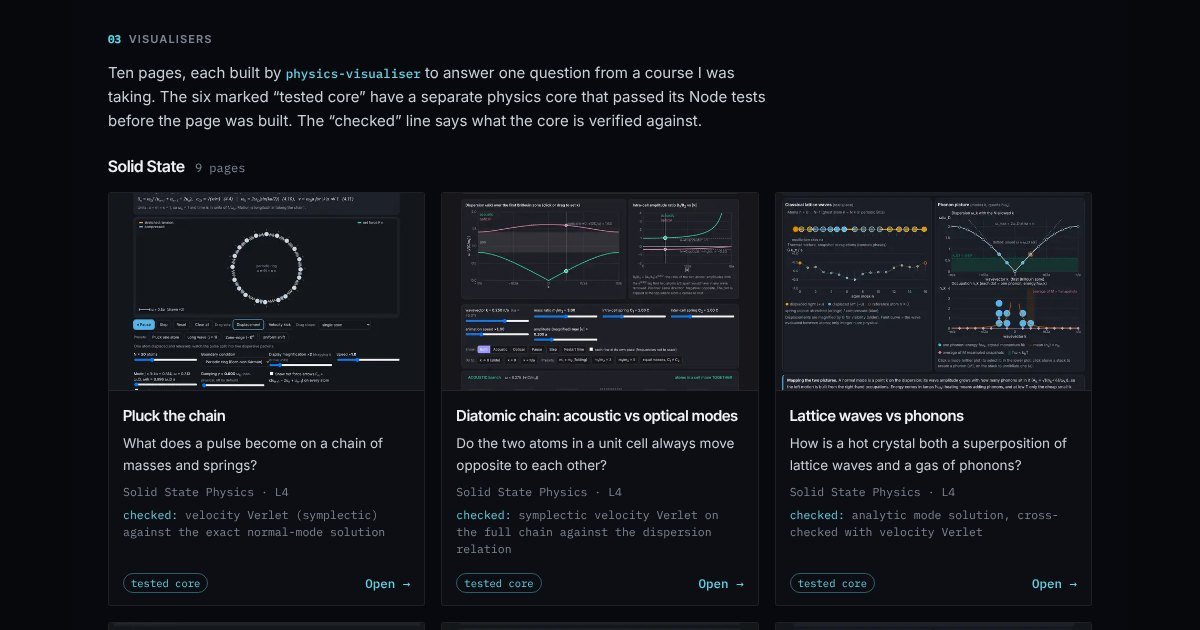
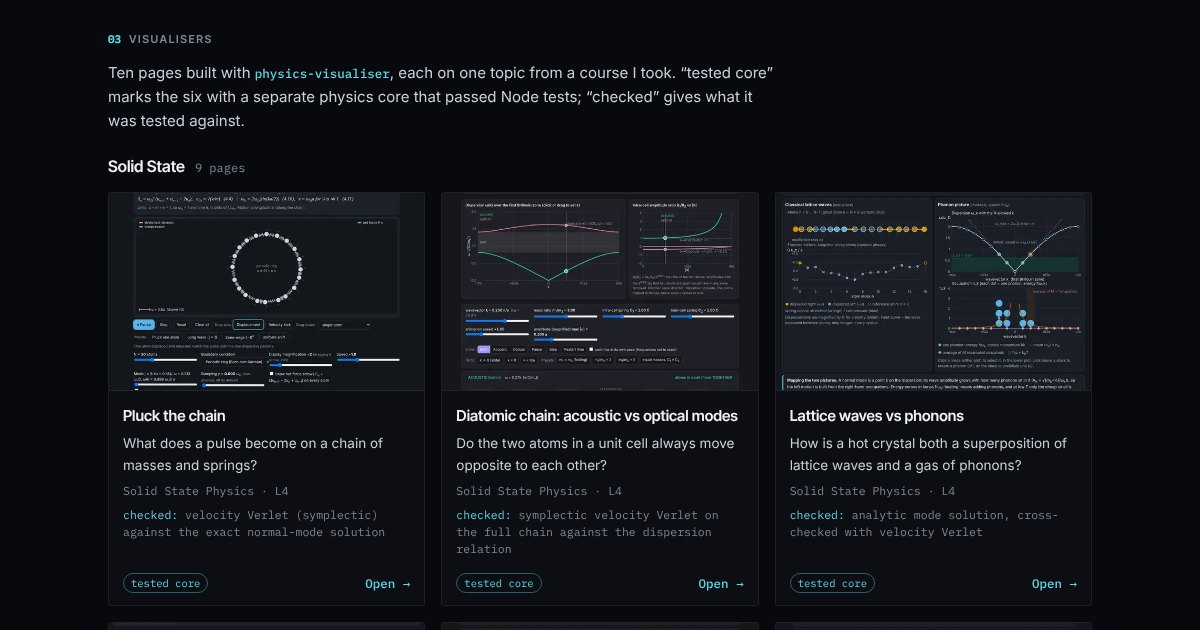
Plainer copy on /lab
Descriptive skill headings, no pull-quotes, shorter factual wording.

Changed region(s): [[0.0925, 0.0905, 0.6475, 0.2111], [0.74, 0.754, 0.7708, 0.7841], [0.185, 0.754, 0.2158, 0.7841]]

diff --git a/lab/index.html b/lab/index.html
@@ -4,7 +4,7 @@
 <meta charset="UTF-8">
 <meta name="viewport" content="width=device-width, initial-scale=1.0">
 <title>Things I build · Louis Razumovsky-Hough</title>
-<meta name="description" content="Four agent skills I designed, and what they produce: 10 interactive physics visualisers with Node-tested physics cores, verified practice questions and study automations.">
+<meta name="description" content="Four agent skills and their outputs: 10 interactive physics visualisers with Node-tested physics cores, verified practice questions and study guides.">
 <meta name="theme-color" content="#07080c">
 <link rel="canonical" href="https://louisvrh.github.io/lab/">
 <link rel="icon" href="../favicon.svg" type="image/svg+xml">
@@ -13,7 +13,7 @@
 <meta property="og:url" content="https://louisvrh.github.io/lab/">
 <meta property="og:site_name" content="Louis Razumovsky-Hough · Airy Labs">
 <meta property="og:title" content="Things I build">
-<meta property="og:description" content="Four agent skills I designed, and what they produce: 10 interactive physics visualisers with Node-tested physics cores, verified practice questions and study automations.">
+<meta property="og:description" content="Four agent skills and their outputs: 10 interactive physics visualisers with Node-tested physics cores, verified practice questions and study guides.">
 <meta property="og:image" content="https://louisvrh.github.io/lab/og.jpg">
 <meta property="og:image:width" content="1200">
 <meta property="og:image:height" content="630">
@@ -208,10 +208,6 @@
   .io dd { margin: 0; }
   .trust { margin: 0; font-size: 14px; }
   .trust b { color: var(--strong); font-weight: 600; }
-  blockquote {
-    margin: 0; padding: 0 0 0 12px; border-left: 2px solid var(--accent);
-    font-size: 13.5px; color: var(--strong); font-style: italic;
-  }
   details { border-top: 1px solid var(--line); padding-top: 0.6rem; margin-top: auto; }
   summary {
     cursor: pointer; list-style: none; display: inline-flex; align-items: center; gap: 8px;
@@ -286,8 +282,7 @@
   @media (max-width: 560px) { .others li { grid-template-columns: minmax(0, 1fr); } .others p { margin-top: 0.2rem; } }
   .sub-h { margin: 2.2rem 0 1rem; }
 
-  .closing p { max-width: var(--measure); font-size: 16px; color: var(--strong); }
-  .closing p + p { color: var(--text); font-size: 15px; }
+  .closing p { max-width: var(--measure); color: var(--text); }
   footer {
     margin: 1.4rem 0 4rem; font-size: 12px; color: var(--muted); text-align: center;
   }
@@ -317,11 +312,11 @@
     <div class="hero-text">
       <p class="kicker">Agent skills · physics visualisers · study automation</p>
       <h1>Things I build</h1>
-      <p class="lede">I write agent skills: reusable instructions that come with their own checks. They turn my lecture notes into interactive physics visualisers, verified practice questions and study guides. Below are the skills, how they connect, and what they have built so far.</p>
+      <p class="lede">Four agent skills I wrote for my physics degree, and what they produce from lecture notes: interactive visualisers, practice question sets and study guides. Each skill specifies a procedure and the tests its output must pass.</p>
       <ul class="facts" aria-label="At a glance">
-        <li><b>4</b> custom skills</li>
-        <li><b>10</b> interactive visualisers</li>
-        <li><b>6</b> physics cores unit-tested in Node before any UI</li>
+        <li><b>4</b> skills</li>
+        <li><b>10</b> visualisers</li>
+        <li><b>6</b> with physics cores unit-tested in Node</li>
       </ul>
     </div>
 
@@ -341,7 +336,7 @@
           <span class="cta">▶ Run it here</span>
         </a>
       </div>
-      <figcaption class="viewer-cap"><strong>Drag the point h across the contours, or drag the surface to rotate it.</strong> The two arrows are the eigenvectors of K, the only directions in which the force −Kh points straight back along the line. That is why the normal modes of m d²h/dt² = −Kh are those eigenvectors.</figcaption>
+      <figcaption class="viewer-cap"><strong>Drag h across the contour plot, or drag the surface to rotate it.</strong> The arrows are the eigenvectors of K, the only directions in which −Kh is parallel to h, so the normal modes of m d²h/dt² = −Kh lie along them.</figcaption>
     </figure>
   </header>
 
@@ -350,7 +345,7 @@
     <!-- ===================== pipeline ===================== -->
     <section class="panel" aria-labelledby="h-pipe">
       <h2 id="h-pipe"><span class="n">01</span>How the skills connect</h2>
-      <p class="intro">Each skill is a written procedure that the agent follows, including the tests it must run before it is allowed to publish anything. They hand work to each other: one lecture PDF becomes a study page, and from that page I can request a visualisation or a question set.</p>
+      <p class="intro">Each skill is a written procedure, including tests the output must pass before it is published. <span class="skill-name">lecture-notes-to-doc</span> converts a lecture PDF into a study page and, on request, passes briefs to <span class="skill-name">physics-visualiser</span> and <span class="skill-name">practice-questions</span>.</p>
 
       <svg class="pipe-svg" viewBox="0 0 960 476" aria-hidden="true" focusable="false">
         <defs>
@@ -365,15 +360,15 @@
         <!-- Row A: lecture notes -->
         <rect class="in" x="0.5" y="30.5" width="200" height="56" rx="3"/>
         <text class="t" x="14" y="54">Lecture-note PDFs</text>
-        <text class="s" x="14" y="72">one set per chat</text>
+        <text class="s" x="14" y="72">one lecture set at a time</text>
         <path class="ar" d="M201 58 H258" marker-end="url(#ah)"/>
         <rect class="sk" x="262.5" y="30.5" width="270" height="56" rx="3"/>
         <text class="k" x="276" y="54">lecture-notes-to-doc</text>
-        <text class="s" x="276" y="72">faithful transcription, marked additions</text>
+        <text class="s" x="276" y="72">transcription; additions marked</text>
         <path class="ar acc" d="M533 58 H600" marker-end="url(#ahA)"/>
         <rect class="out" x="604.5" y="30.5" width="355" height="56" rx="3"/>
         <text class="t" x="618" y="54">LaTeX-style study page</text>
-        <text class="s" x="618" y="72">select any passage, ask, get an answer in place</text>
+        <text class="s" x="618" y="72">inline questions on any passage</text>
 
         <!-- dispatch -->
         <path class="ar acc" d="M282 87 V230 H296" marker-end="url(#ahA)"/>
@@ -384,20 +379,20 @@
         <!-- Row B: visualiser -->
         <rect class="sk" x="300.5" y="124.5" width="232" height="56" rx="3"/>
         <text class="k" x="314" y="148">physics-visualiser</text>
-        <text class="s" x="314" y="166">tested core first, then the UI</text>
+        <text class="s" x="314" y="166">Node-tested core, then UI</text>
         <path class="ar acc" d="M533 152 H600" marker-end="url(#ahA)"/>
         <rect class="out" x="604.5" y="124.5" width="355" height="56" rx="3"/>
         <text class="t" x="618" y="148">Interactive visualiser page</text>
-        <text class="s" x="618" y="166">presets, live readouts, “What to notice”</text>
+        <text class="s" x="618" y="166">presets, live readouts, model notes</text>
 
         <!-- Row C: practice -->
         <rect class="in" x="0.5" y="214.5" width="200" height="56" rx="3"/>
-        <text class="t" x="14" y="238">Or any source</text>
+        <text class="t" x="14" y="238">Other sources</text>
         <text class="s" x="14" y="256">syllabus, past paper, OA list</text>
         <path class="ar" d="M201 252 H296" marker-end="url(#ah)"/>
         <rect class="sk" x="300.5" y="210.5" width="232" height="56" rx="3"/>
         <text class="k" x="314" y="234">practice-questions</text>
-        <text class="s" x="314" y="252">every answer recomputed</text>
+        <text class="s" x="314" y="252">answers recomputed by verify.py</text>
         <path class="ar acc" d="M533 238 H600" marker-end="url(#ahA)"/>
         <rect class="out" x="604.5" y="210.5" width="355" height="56" rx="3"/>
         <text class="t" x="618" y="234">Practice page with tracking</text>
@@ -413,24 +408,24 @@
         <path class="ar" d="M201 364 H258" marker-end="url(#ah)"/>
         <rect class="sk" x="262.5" y="336.5" width="270" height="56" rx="3"/>
         <text class="k" x="276" y="360">physics-module-study-guide</text>
-        <text class="s" x="276" y="378">teaches, prerequisites first</text>
+        <text class="s" x="276" y="378">ordered by prerequisites</text>
         <path class="ar acc" d="M533 364 H600" marker-end="url(#ahA)"/>
         <rect class="out" x="604.5" y="336.5" width="355" height="56" rx="3"/>
-        <text class="t" x="618" y="360">Teaching study guide for one module</text>
+        <text class="t" x="618" y="360">Study guide for one module</text>
         <text class="s" x="618" y="378">derivations, worked examples, key-formulae table</text>
 
         <!-- Row E: study coach -->
         <rect class="in" x="0.5" y="412.5" width="200" height="56" rx="3"/>
         <text class="t" x="14" y="436">Scheduled tasks</text>
-        <text class="s" x="14" y="454">an agent on a timer</text>
+        <text class="s" x="14" y="454">on a schedule</text>
         <path class="ar wm" d="M201 440 H258" marker-end="url(#ahW)"/>
         <rect class="sk2" x="262.5" y="412.5" width="270" height="56" rx="3"/>
         <text class="w" x="276" y="436">study coach</text>
         <text class="s" x="276" y="454">a Telegram bot</text>
         <path class="ar wm" d="M533 440 H600" marker-end="url(#ahW)"/>
         <rect class="out" x="604.5" y="412.5" width="355" height="56" rx="3"/>
-        <text class="t" x="618" y="436">A morning plan on my phone</text>
-        <text class="s" x="618" y="454">then it checks my replies</text>
+        <text class="t" x="618" y="436">Morning study plan via Telegram</text>
+        <text class="s" x="618" y="454">replies are checked</text>
       </svg>
 
       <!-- The same diagram as text: shown on narrow screens, read by screen readers everywhere. -->
@@ -441,7 +436,7 @@
             <span class="arrow" aria-hidden="true">↓</span>
             <span class="chip sk">lecture-notes-to-doc</span>
             <span class="arrow" aria-hidden="true">↓</span>
-            <span class="chip">LaTeX-style study page with in-place answers</span>
+            <span class="chip">LaTeX-style study page, inline questions</span>
             <div class="branch">
               <span class="note">dispatches briefs to</span>
               <span class="chip sk">physics-visualiser</span>
@@ -455,7 +450,7 @@
         </li>
         <li>
           <div class="chain">
-            <span class="chip in">Any source: syllabus, past paper, OA list</span>
+            <span class="chip in">Other sources: syllabus, past paper, OA list</span>
             <span class="arrow" aria-hidden="true">↓</span>
             <span class="chip sk">practice-questions</span>
           </div>
@@ -466,7 +461,7 @@
             <span class="arrow" aria-hidden="true">↓</span>
             <span class="chip sk">physics-module-study-guide</span>
             <span class="arrow" aria-hidden="true">↓</span>
-            <span class="chip">Teaching study guide for one module</span>
+            <span class="chip">Study guide for one module</span>
           </div>
         </li>
         <li>
@@ -475,7 +470,7 @@
             <span class="arrow" aria-hidden="true">↓</span>
             <span class="chip sk2">study coach (Telegram bot)</span>
             <span class="arrow" aria-hidden="true">↓</span>
-            <span class="chip">A morning plan, then it checks my replies</span>
+            <span class="chip">Morning study plan via Telegram; replies checked</span>
           </div>
         </li>
       </ol>
@@ -484,24 +479,23 @@
     <!-- ===================== skills ===================== -->
     <section class="panel" aria-labelledby="h-skills">
       <h2 id="h-skills"><span class="n">02</span>The four skills</h2>
-      <p class="intro">Each one fixes the order of work and the checks the agent must pass before it publishes anything. The engineering is in the checks.</p>
+      <p class="intro">Inputs, outputs, and the checks each skill applies before publishing.</p>
 
       <div class="skills">
         <article class="skill" aria-labelledby="sk-vis">
           <span class="skill-name">physics-visualiser</span>
-          <h3 id="sk-vis">One concept, one interactive page, with the physics tested first</h3>
+          <h3 id="sk-vis">Interactive simulation page for one physics concept</h3>
           <dl class="io">
             <dt>In</dt><dd>A brief: the concept, the lecture’s equations and symbols, the cases it discusses, the insight to show.</dd>
             <dt>Out</dt><dd>A page with the equations in KaTeX, a canvas, 2–4 sliders, presets for each lecture case, live readouts, “What to notice” and a collapsed “Model and assumptions”.</dd>
           </dl>
-          <p class="trust"><b>Why trust it:</b> all the physics lives in a <code>core.js</code> with no DOM code, and it has to pass a Node test suite before any UI is built. Conservative systems use symplectic integrators (velocity Verlet or leapfrog), so energy doesn’t drift.</p>
-          <blockquote>“A pretty animation with wrong dynamics is worse than none, because the student will trust it.”</blockquote>
+          <p class="trust"><b>Verification:</b> the physics is in a separate <code>core.js</code> (no DOM code) that must pass a Node test suite before the UI is built. Conservative systems use symplectic integrators (velocity Verlet, leapfrog).</p>
           <details>
-            <summary>How it checks itself</summary>
+            <summary>Details</summary>
             <ul>
               <li>Uses the analytic solution whenever one exists, and simulates only what has no closed form.</li>
               <li>Matches the integrator to the system: Verlet or leapfrog for Hamiltonian mechanics, RK4 for damped or driven systems, eigenstate expansion, split-step Fourier or Crank–Nicolson for time-dependent QM. Never explicit Euler for oscillatory motion.</li>
-              <li>The test file must print three things: drift in a conserved quantity under 1e-3 over at least 20 periods (or the right decay rate if damped), an analytic benchmark such as a period or the small-amplitude limit, and the correct qualitative behaviour for every preset.</li>
+              <li>Required test output: relative drift in a conserved quantity below 1e-3 over at least 20 periods (or the expected decay rate if damped), an analytic benchmark such as a period or small-amplitude limit, and the expected behaviour for every preset.</li>
               <li>A fixed physics timestep, decoupled from the frame rate; sub-stepping when the speed slider is high; boundary conditions stated on the page.</li>
             </ul>
           </details>
@@ -509,61 +503,59 @@
 
         <article class="skill" aria-labelledby="sk-lec">
           <span class="skill-name">lecture-notes-to-doc</span>
-          <h3 id="sk-lec">Lecture PDFs become a page that reads like the LaTeX original, and answers back</h3>
+          <h3 id="sk-lec">Lecture-notes PDF to a LaTeX-style web page</h3>
           <dl class="io">
             <dt>In</dt><dd>A lecture-notes PDF.</dd>
-            <dt>Out</dt><dd>A study page in Latin Modern, with numbered equations and the printed page numbers in the margin. Select a passage, ask a question, and the answer appears in place. On request it hands briefs to the visualiser and practice-question skills.</dd>
+            <dt>Out</dt><dd>A study page in Latin Modern with numbered equations and the printed page numbers in the margin. Any passage can be selected and queried inline. On request it passes briefs to the visualiser and practice-question skills.</dd>
           </dl>
-          <p class="trust"><b>Why trust it:</b> fidelity comes first. The rendered page image, not the extracted text, is the ground truth for every equation. The agent’s additions are labelled and never mixed into the lecturer’s text, and suspected errors in the notes are kept as written and flagged, not silently fixed.</p>
+          <p class="trust"><b>Verification:</b> equations are transcribed from rendered page images, not extracted text. Additions are labelled and kept separate from the lecturer’s text; suspected errors in the notes are flagged rather than corrected.</p>
           <details>
-            <summary>How it checks itself</summary>
+            <summary>Details</summary>
             <ul>
-              <li>It rasterises every page with maths, figures or handwriting, because text extraction garbles subscripts, fractions and vectors.</li>
-              <li>A skipped algebra step gets a marked <code>STEP</code> note after the equation, and the lecturer’s lines are never edited.</li>
-              <li>Any claim the agent adds is checked numerically where possible: “If you say you checked something, you must have run the check.”</li>
-              <li>The page is built by a tested build kit that is restored byte for byte, matched by SHA-256, never retyped. A build that reports TeX errors isn’t published.</li>
-              <li>Visualisations are made only when I ask for one, each by a background agent briefed with the lecture’s own equations and notation.</li>
+              <li>Pages with maths, figures or handwriting are rasterised and read as images, since text extraction garbles subscripts, fractions and vectors.</li>
+              <li>Skipped algebra steps get a marked <code>STEP</code> note after the equation; the lecturer’s lines are not edited.</li>
+              <li>Claims added by the agent are checked numerically where possible.</li>
+              <li>Pages are built with a tested build kit restored byte for byte (SHA-256 matched). Builds with TeX errors are not published.</li>
+              <li>Visualisations are built only on request, by a background agent given the lecture’s equations and notation.</li>
             </ul>
           </details>
         </article>
 
         <article class="skill" aria-labelledby="sk-pq">
           <span class="skill-name">practice-questions</span>
-          <h3 id="sk-pq">Practice questions where every answer key is recomputed before it ships</h3>
+          <h3 id="sk-pq">Practice question sets with independently verified answers</h3>
           <dl class="io">
             <dt>In</dt><dd>Any source: lecture notes, a syllabus, a topic checklist, a past paper or an interview prep list.</dd>
-            <dt>Out</dt><dd>An interactive practice page with 20 questions by default (40% core, 40% exam-standard, 20% stretch): practice, timed, drill and review modes, hints, and spaced repetition.</dd>
+            <dt>Out</dt><dd>An interactive page, 20 questions by default (40% core, 40% exam-standard, 20% stretch), with practice, timed, drill and review modes, hints and spaced repetition.</dd>
           </dl>
-          <p class="trust"><b>Why trust it:</b> a separate <code>verify.py</code> recomputes every answer independently of how it was written. It uses exact fractions, and probability answers also get a Monte Carlo run of at least 200k trials that must agree within 4 standard errors. A question that fails is fixed or dropped.</p>
-          <blockquote>“A wrong answer key is worse than no question.”</blockquote>
+          <p class="trust"><b>Verification:</b> <code>verify.py</code> recomputes every answer independently, with exact fractions; probability answers also need a Monte Carlo check (≥ 200k trials, agreement within 4 standard errors). Failing questions are fixed or dropped.</p>
           <details>
-            <summary>How it checks itself</summary>
+            <summary>Details</summary>
             <ul>
-              <li>Each wrong multiple-choice option is a real mistake (a forgotten conditioning, a factor of 2, an off-by-one), so a wrong answer gets a diagnosis rather than just a cross.</li>
+              <li>Each wrong multiple-choice option corresponds to a specific mistake (missed conditioning, a factor of 2, an off-by-one), which is shown when it is chosen.</li>
               <li>Multiple-choice checks: exactly one option equals the verified answer, and no two options are numerically equal. Expressions are checked for equivalence at 20 random points.</li>
               <li>Answers are accepted in any reasonable format: 3/8, 0.375, 37.5% or 3.75e-1.</li>
               <li>Extra questions generated inside the page are badged “Unverified” until they have been through <code>verify.py</code>.</li>
-              <li>It never claims to reproduce a real exam’s or firm’s questions, only questions “in the style of”.</li>
+              <li>Questions are original; none are presented as a real exam’s or firm’s questions.</li>
             </ul>
           </details>
         </article>
 
         <article class="skill" aria-labelledby="sk-sg">
           <span class="skill-name">physics-module-study-guide</span>
-          <h3 id="sk-sg">A study guide that teaches a whole module, prerequisites first</h3>
+          <h3 id="sk-sg">Study guide for one module, built from the course notes</h3>
           <dl class="io">
             <dt>In</dt><dd>A module code or name, read from my indexed library of Year 1–3 notes.</dd>
-            <dt>Out</dt><dd>A guide that someone who missed the lectures could learn from: prerequisites from the Skill Tree, then per topic why it matters, the ideas, key derivations, a worked example and common mistakes. It ends with a key-formulae table with sources.</dd>
+            <dt>Out</dt><dd>A guide ordered by prerequisites (from the Skill Tree). Per topic: motivation, explanation, key derivations, a worked example and common mistakes. Ends with a key-formulae table with sources.</dd>
           </dl>
-          <p class="trust"><b>Why trust it:</b> every formula in the table is checked against its source page for factors of 2 and π, signs, ħ versus h, and SI versus Gaussian units. For a whole module, a second agent that hasn’t seen the draft compares the table with the PDFs and reports mismatches.</p>
-          <blockquote>“It is not a recap sheet.”</blockquote>
+          <p class="trust"><b>Verification:</b> each formula in the table is checked against its source page (factors of 2 and π, signs, ħ vs h, SI vs Gaussian units). For a whole module, a second agent that has not seen the draft compares the table with the PDFs.</p>
           <details>
-            <summary>How it checks itself</summary>
+            <summary>Details</summary>
             <ul>
-              <li>Notes are looked up through a per-module index rather than by browsing, so it reads the primary notes first and secondary material only to fill gaps.</li>
-              <li>Equation-heavy pages are rendered as images before any formula is written down: never “rebuild an equation from memory when the notes have it”.</li>
+              <li>Sources are chosen from a per-module index: primary notes first, secondary material only to fill gaps.</li>
+              <li>Equation-heavy pages are read as images before any formula is written down.</li>
               <li>Every prerequisite named must be a real node in the Skill Tree, and every exam claim must trace back to the course’s own exam notes.</li>
-              <li>Background that isn’t in the notes is labelled “(not in the notes)”, and notation clashes between modules are pointed out.</li>
+              <li>Material not in the notes is labelled “(not in the notes)”; notation clashes between modules are noted.</li>
             </ul>
           </details>
         </article>
@@ -573,7 +565,7 @@
     <!-- ===================== gallery ===================== -->
     <section class="panel" aria-labelledby="h-gallery">
       <h2 id="h-gallery"><span class="n">03</span>Visualisers</h2>
-      <p class="intro">Ten pages, each built by <span class="skill-name">physics-visualiser</span> to answer one question from a course I was taking. The six marked “tested core” have a separate physics core that passed its Node tests before the page was built. The “checked” line says what the core is verified against.</p>
+      <p class="intro">Ten pages built with <span class="skill-name">physics-visualiser</span>, each on one topic from a course I took. “tested core” marks the six with a separate physics core that passed Node tests; “checked” gives what it was tested against.</p>
       <div class="group">
         <div class="group-head"><h3 id="g-ss">Solid State</h3><span class="count">9 pages</span></div>
         <ul class="grid" aria-labelledby="g-ss">
@@ -690,7 +682,7 @@
           <div class="thumb"><img src="thumbs/physics-skill-tree-600.webp" srcset="thumbs/physics-skill-tree-600.webp 600w, thumbs/physics-skill-tree-1200.webp 1200w" sizes="(max-width: 820px) 92vw, 500px" width="600" height="375" loading="lazy" decoding="async" alt="The Physics Skill Tree: lanes for each subject, with skills linked by prerequisite arrows from Year 1 to Year 2."></div>
           <div class="card-body">
             <h3>Physics Skill Tree</h3>
-            <p class="q">An interactive prerequisite map of the Imperial physics degree: 53 skills and 377 topics across Years 1 and 2. Tick off topics as you master them, and hover over a skill to trace what it builds on and what it unlocks. The study-guide skill reads the tree to order its prerequisites.</p>
+            <p class="q">Prerequisite map of the Imperial physics degree: 53 skills and 377 topics, Years 1–2. Topics can be marked as learnt; hovering a skill highlights its prerequisites and dependents. The study-guide skill uses it to order prerequisites.</p>
             <span class="course">Progress is saved in your browser only</span>
             <div class="card-foot"><span class="tag">live</span><a class="open" href="viz/physics-skill-tree/">Open<span class="sr-only">: Physics Skill Tree</span> →</a></div>
           </div>
@@ -699,7 +691,7 @@
           <div class="thumb"><img src="thumbs/bayes-odds-practice-600.webp" srcset="thumbs/bayes-odds-practice-600.webp 600w, thumbs/bayes-odds-practice-1200.webp 1200w" sizes="(max-width: 820px) 92vw, 500px" width="600" height="375" loading="lazy" decoding="async" alt="A practice page styled like a LaTeX paper: the title Bayes’ Rule in Odds Form, an abstract and the key formula."></div>
           <div class="card-body">
             <h3>Bayes in odds form: practice</h3>
-            <p class="q">A page made with <span class="skill-name">practice-questions</span>: 20 problems on updating a belief with likelihood ratios, from medical tests to poker reads. Every answer key was recomputed with exact fractions and a Monte Carlo simulation before the page was built.</p>
+            <p class="q">A page made with <span class="skill-name">practice-questions</span>: 20 problems on Bayesian updating with likelihood ratios (medical tests, poker reads). Answers verified with exact fractions and Monte Carlo simulation.</p>
             <span class="course">Practice, timed and review modes</span>
             <div class="card-foot"><span class="tag">live</span><a class="open" href="viz/bayes-odds-practice/">Open<span class="sr-only">: Bayes in odds form practice</span> →</a></div>
           </div>
@@ -714,7 +706,7 @@
           </figure>
           <div class="card-body">
             <h3>Lecture pages</h3>
-            <p class="q">Made with <span class="skill-name">lecture-notes-to-doc</span>: Solid State Physics L1–6 and L7–11, Atomic Physics L8–14 and Rigid Bodies L11–15, each a LaTeX-style page with in-place answers to questions on any passage, on-demand visualisations and a “Check yourself” sheet.</p>
+            <p class="q">Made with <span class="skill-name">lecture-notes-to-doc</span>: Solid State Physics L1–6 and L7–11, Atomic Physics L8–14, Rigid Bodies L11–15. LaTeX-style pages with inline questions, on-request visualisations and a short “Check yourself” sheet.</p>
             <span class="course">Not published: the notes are the university’s</span>
           </div>
         </li>
@@ -736,7 +728,7 @@
       <ul class="others" aria-labelledby="h-other">
         <li>
           <h4>Quantum circuit compilation</h4>
-          <p>My entry to the Google Quantum AI verifiable circuit-compilation competition on Kaggle is run by a team of long-running AI agents.</p>
+          <p>Entry to the Google Quantum AI verifiable circuit-compilation competition on Kaggle, run by a team of long-running AI agents.</p>
         </li>
         <li>
           <h4>Poker-bot hackathon</h4>
@@ -747,8 +739,7 @@
 
     <!-- ===================== closing ===================== -->
     <section class="panel closing" aria-label="How I work">
-      <p>I design the skills and the checks they have to pass; the skills do the building.</p>
-      <p>Every visualiser and tool linked here came out of one of the skills above.</p>
+      <p>All pages linked above were generated by these skills; I wrote the skills and their tests.</p>
     </section>
   </main>
 
